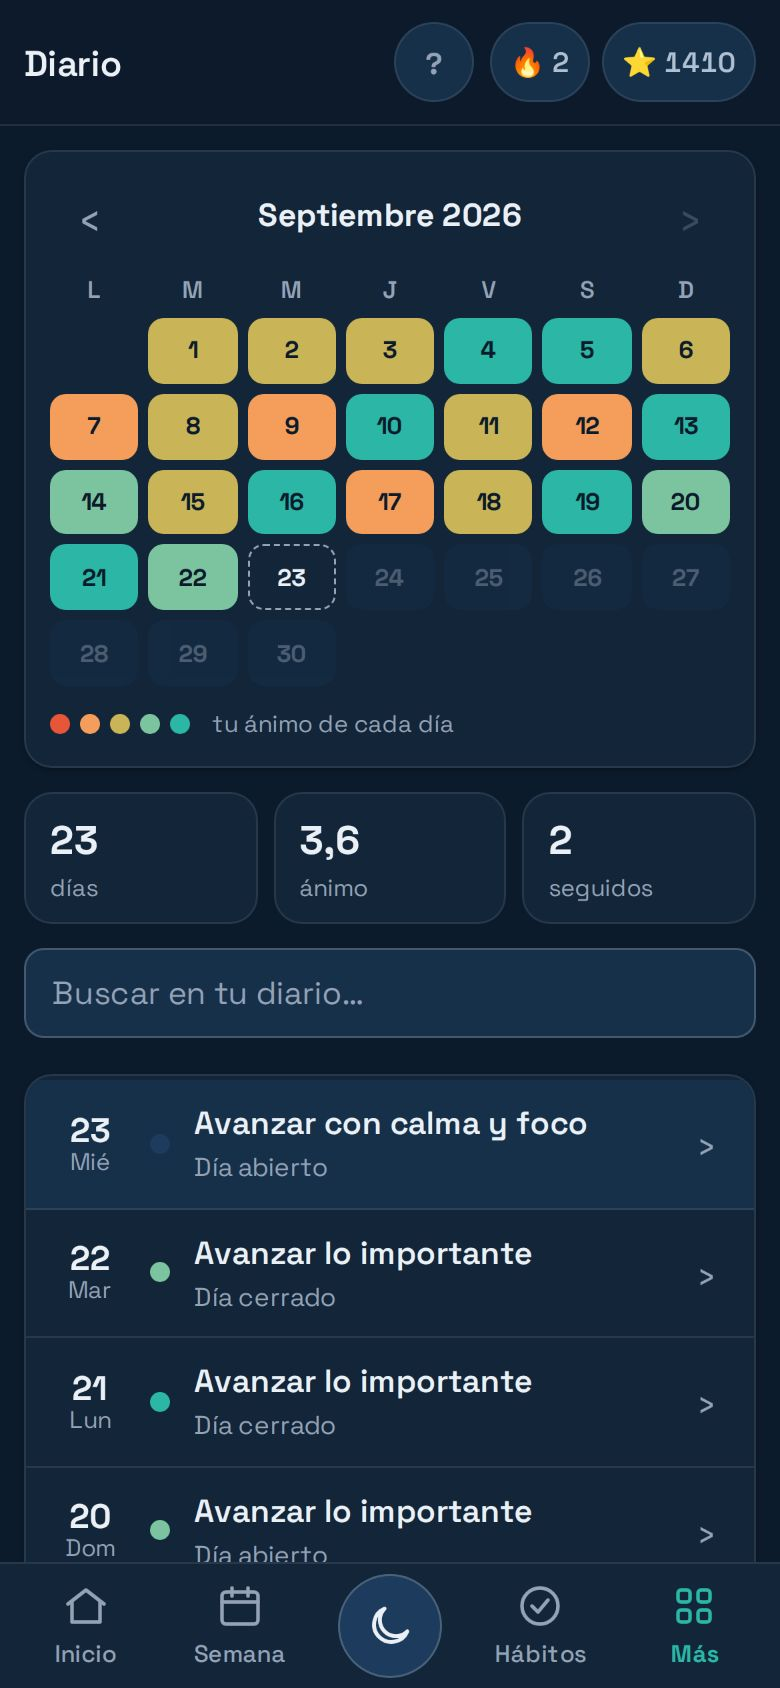
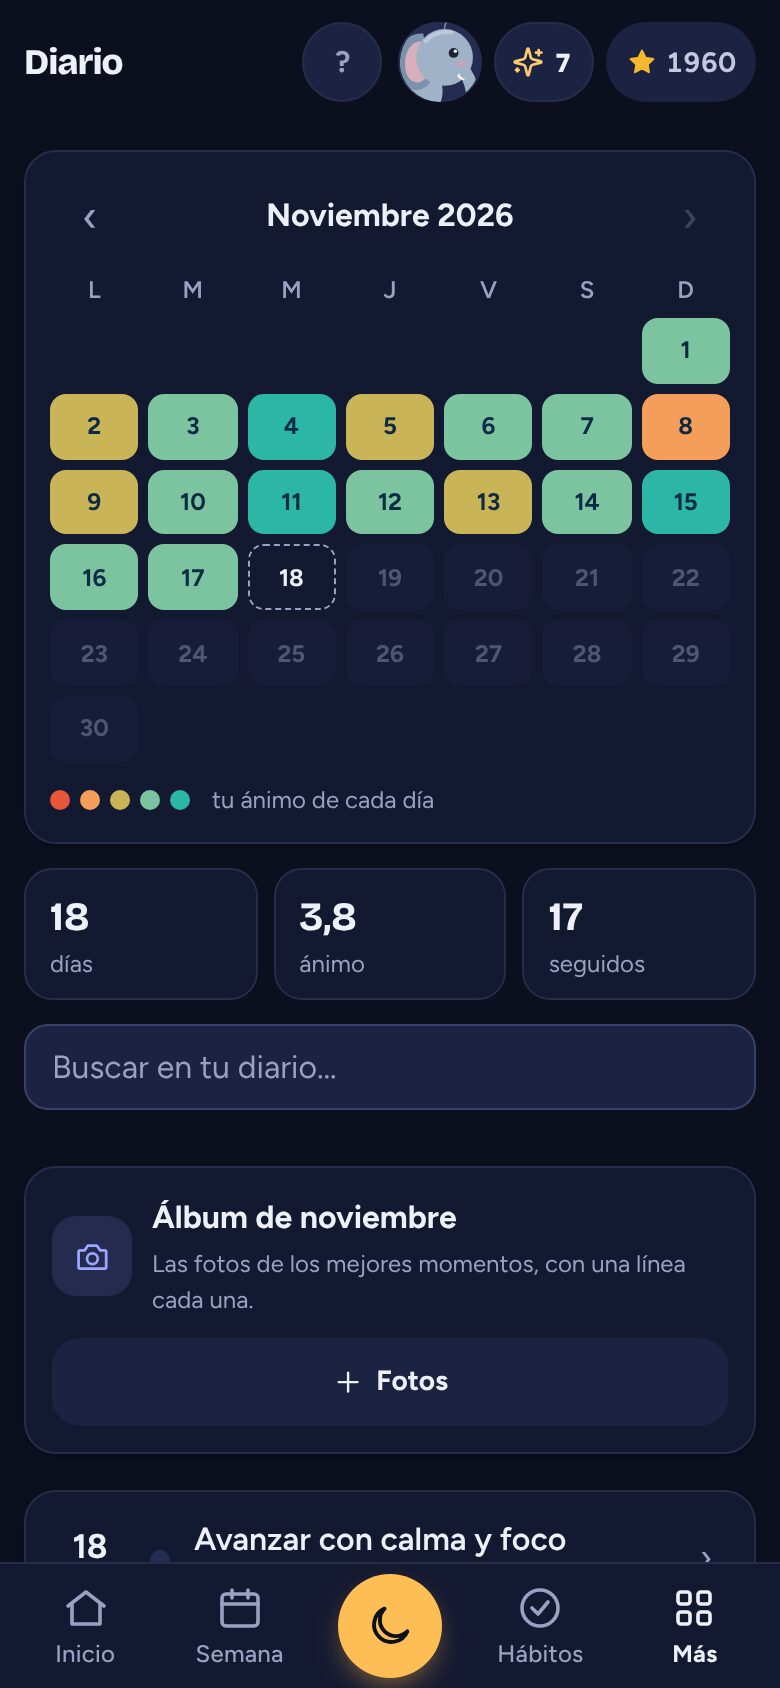
Conoce: capturas nuevas en Norte noche
Las pantallas de la página de presentación y la imagen para compartir
eran de octubre, con la paleta anterior. Ahora salen de la app en Norte
noche, con una cuenta de ejemplo del miércoles 18 de noviembre de 2026:
Inicio con el día abierto, Hábitos con el jardín, la Semana, Notas,
Calendario, Recompensas y el Diario de noviembre. og.jpg es la portada
de la landing con la captura nueva.

tests/e2e/capturas-conoce.cjs las vuelve a sacar (no es parte de run.cjs).

Claude-Session: https://claude.ai/code/session_01G73iJiP4NEw39RQ64LX6gi

diff --git a/conoce/index.html b/conoce/index.html
@@ -352,7 +352,7 @@ footer a{color:var(--soft);text-decoration:none;margin-left:18px}footer a:hover{
     </div>
   </div>
   <div class="hero-vis">
-    <div class="fono"><img src="img/inicio.jpg" alt="Inicio de Rumbo con la misión del día, el primer bocado y las tareas" width="390" height="844" fetchpriority="high"></div>
+    <div class="fono"><img src="img/inicio.jpg" alt="Inicio de Rumbo con la misión del día, el primer bocado y el cierre del día" width="390" height="844" fetchpriority="high"></div>
     <div class="ele-flota" aria-hidden="true"><svg width="100%" viewBox="0 0 260 240" xmlns="http://www.w3.org/2000/svg">
     <ellipse cx="128" cy="224" rx="88" ry="9" fill="#0E2A47" opacity="0.13"/>
     <g transform="translate(128 222) scale(1) translate(-128 -222)"><g class="ele-salto"><g class="ele-breathe">

diff --git a/README.md b/README.md
@@ -23,6 +23,8 @@ Tests de lógica (sin dependencias): `node tests/merge.test.mjs`.
 
 Pruebas en navegador (requieren Playwright, solo para desarrollo): `node tests/e2e/run.cjs`. Levantan `serve.js` solas; con `E2E_SHOTS=carpeta` guardan capturas. Ambas corren en GitHub Actions en cada push (`.github/workflows/pruebas.yml`).
 
+Capturas de la página de presentación (`conoce/img/`): `node tests/e2e/capturas-conoce.cjs`. Arma una cuenta de ejemplo en Norte noche (el miércoles 18 de noviembre de 2026) y vuelve a sacar las siete pantallas y la imagen para compartir (`og.jpg`). Necesita salida a Google Fonts.
+
 ## Notificaciones
 - **Dispositivos:** cada navegador que activa las notificaciones queda en la tabla `suscripciones_push` (una fila por dispositivo; los que el servicio da por muertos se borran solos). Los horarios siguen en `settings.notif` del estado.
 - **Envío:** `pg_cron` llama cada 5 minutos a `rumbo_pedir_recordatorios()`, que hace un `POST` con `pg_net` a `https://rumbo.biplot.cl/api/push/` firmado con el secreto de `configuracion_push`. `api/push.js` ve a quién le toca su hora (`notifier/recordatorios.mjs` y `notifier/reglas.mjs`) y envía con `web-push`. `notif_sent` evita repetir un aviso el mismo día.
